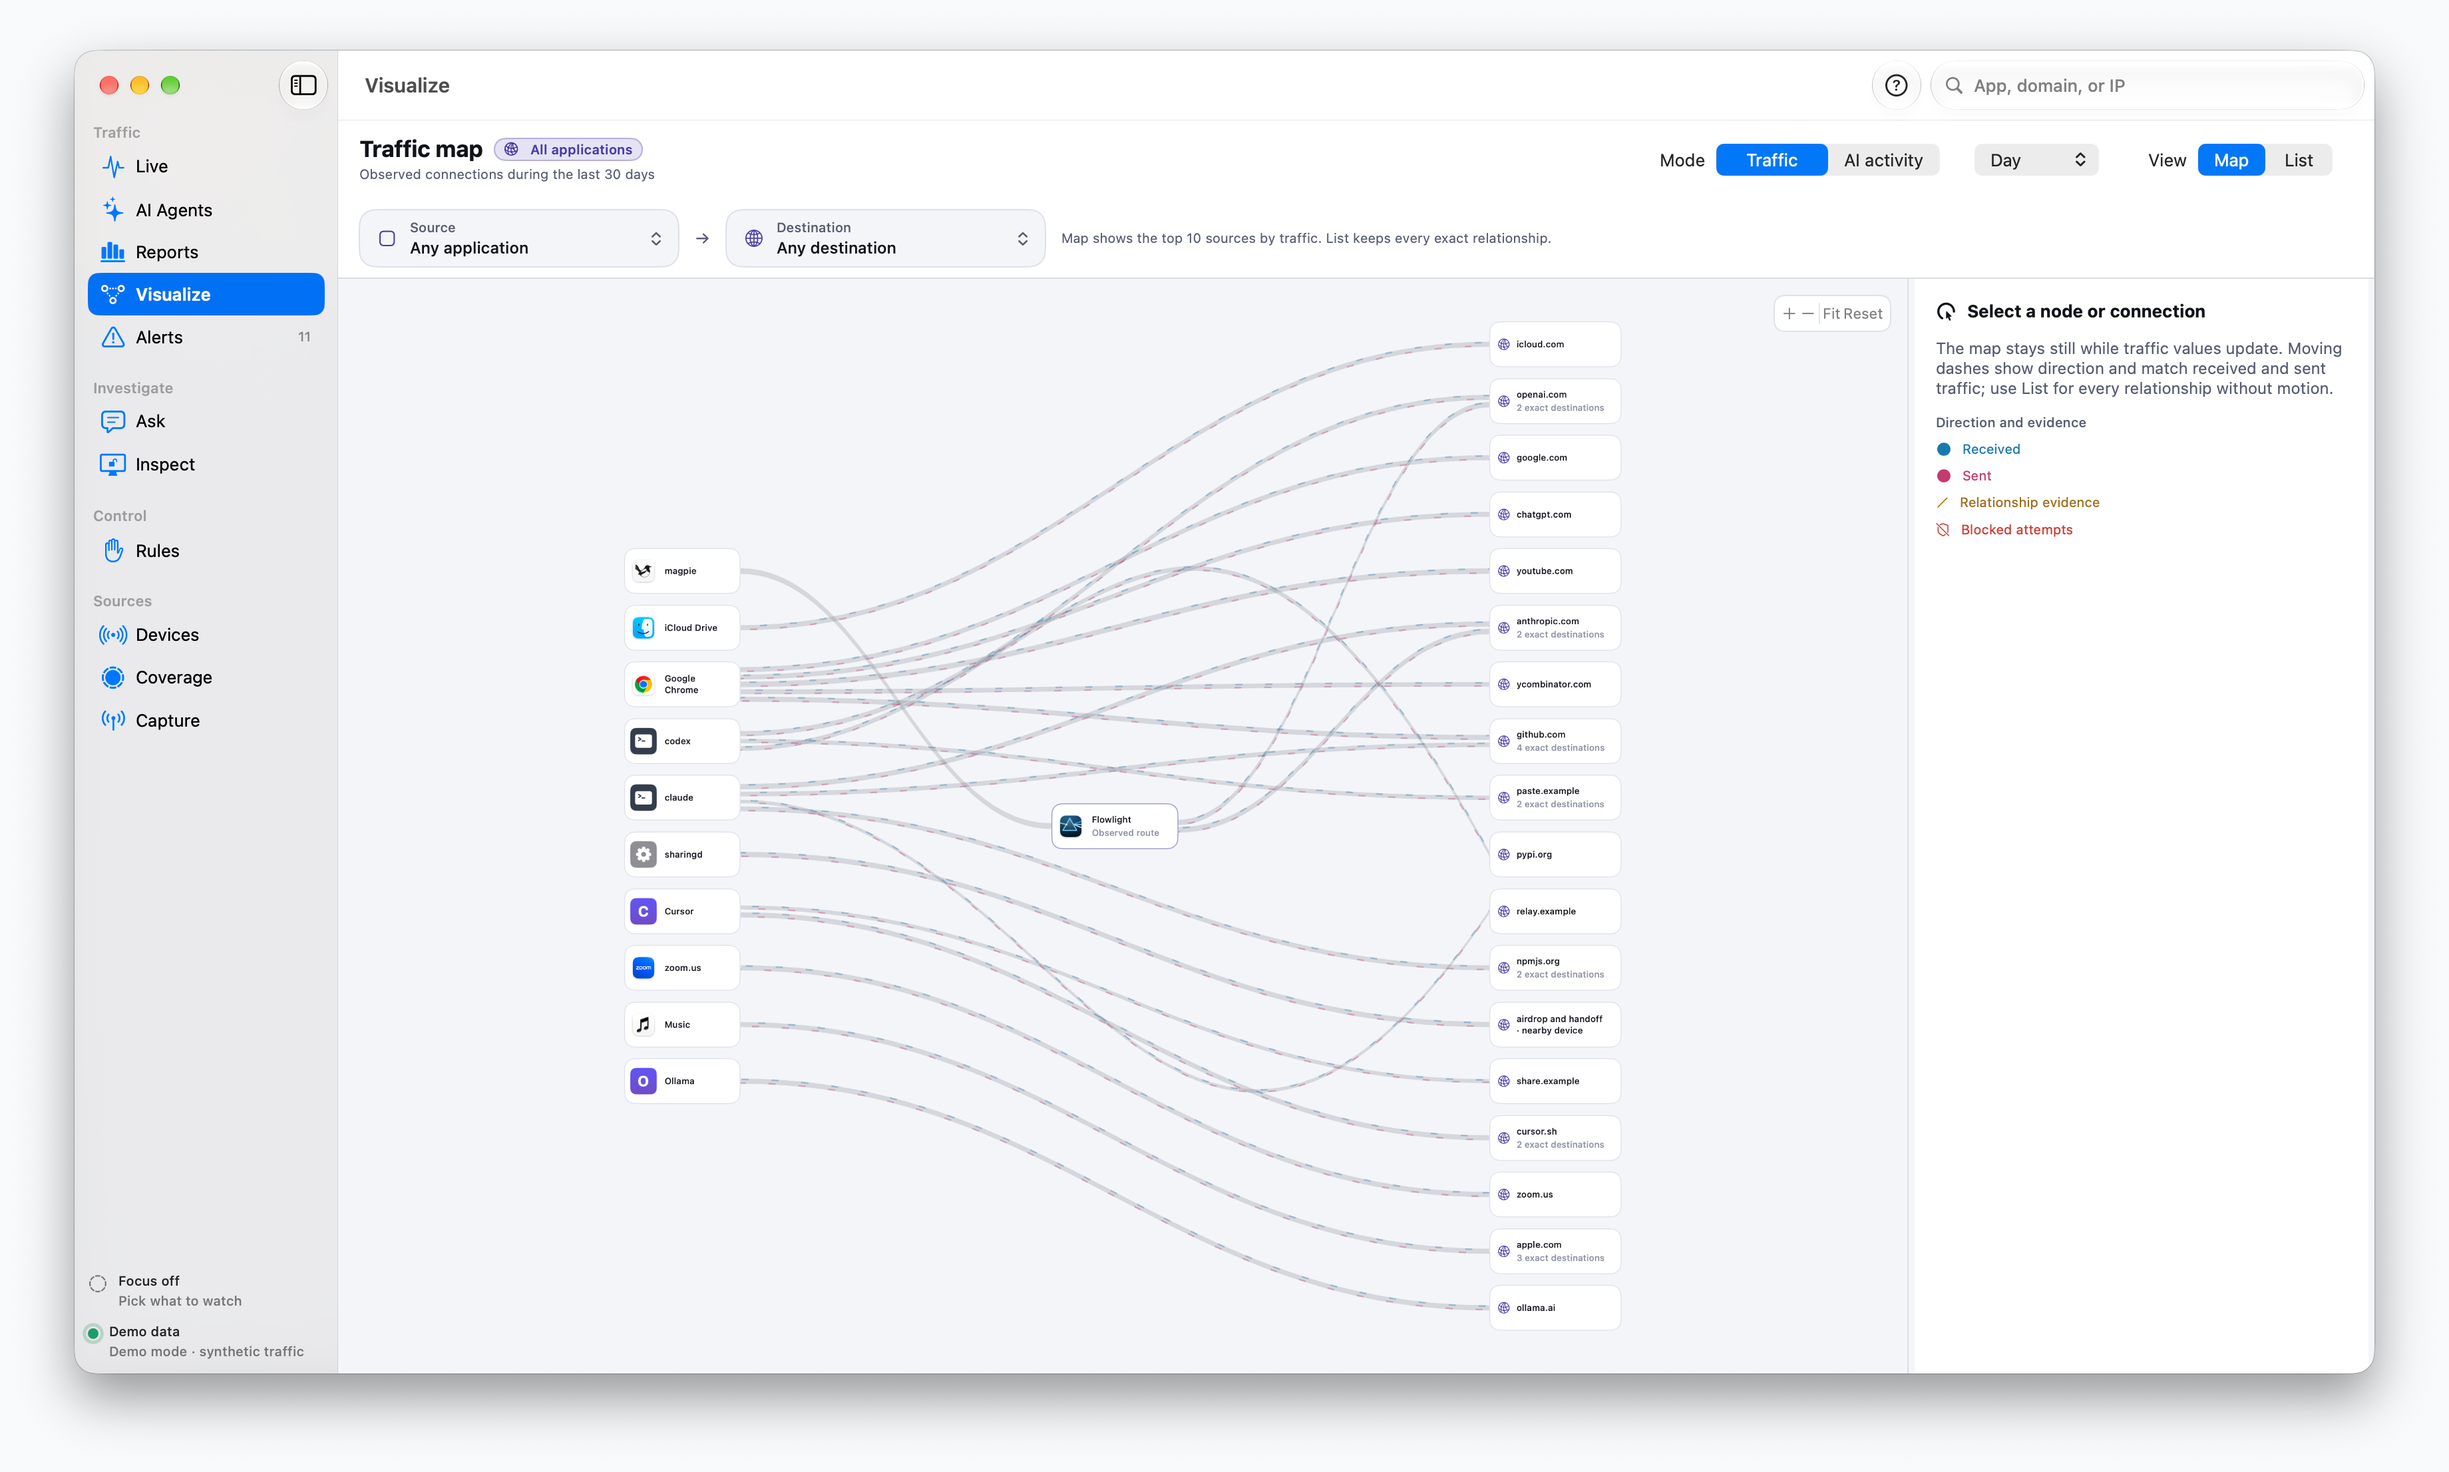
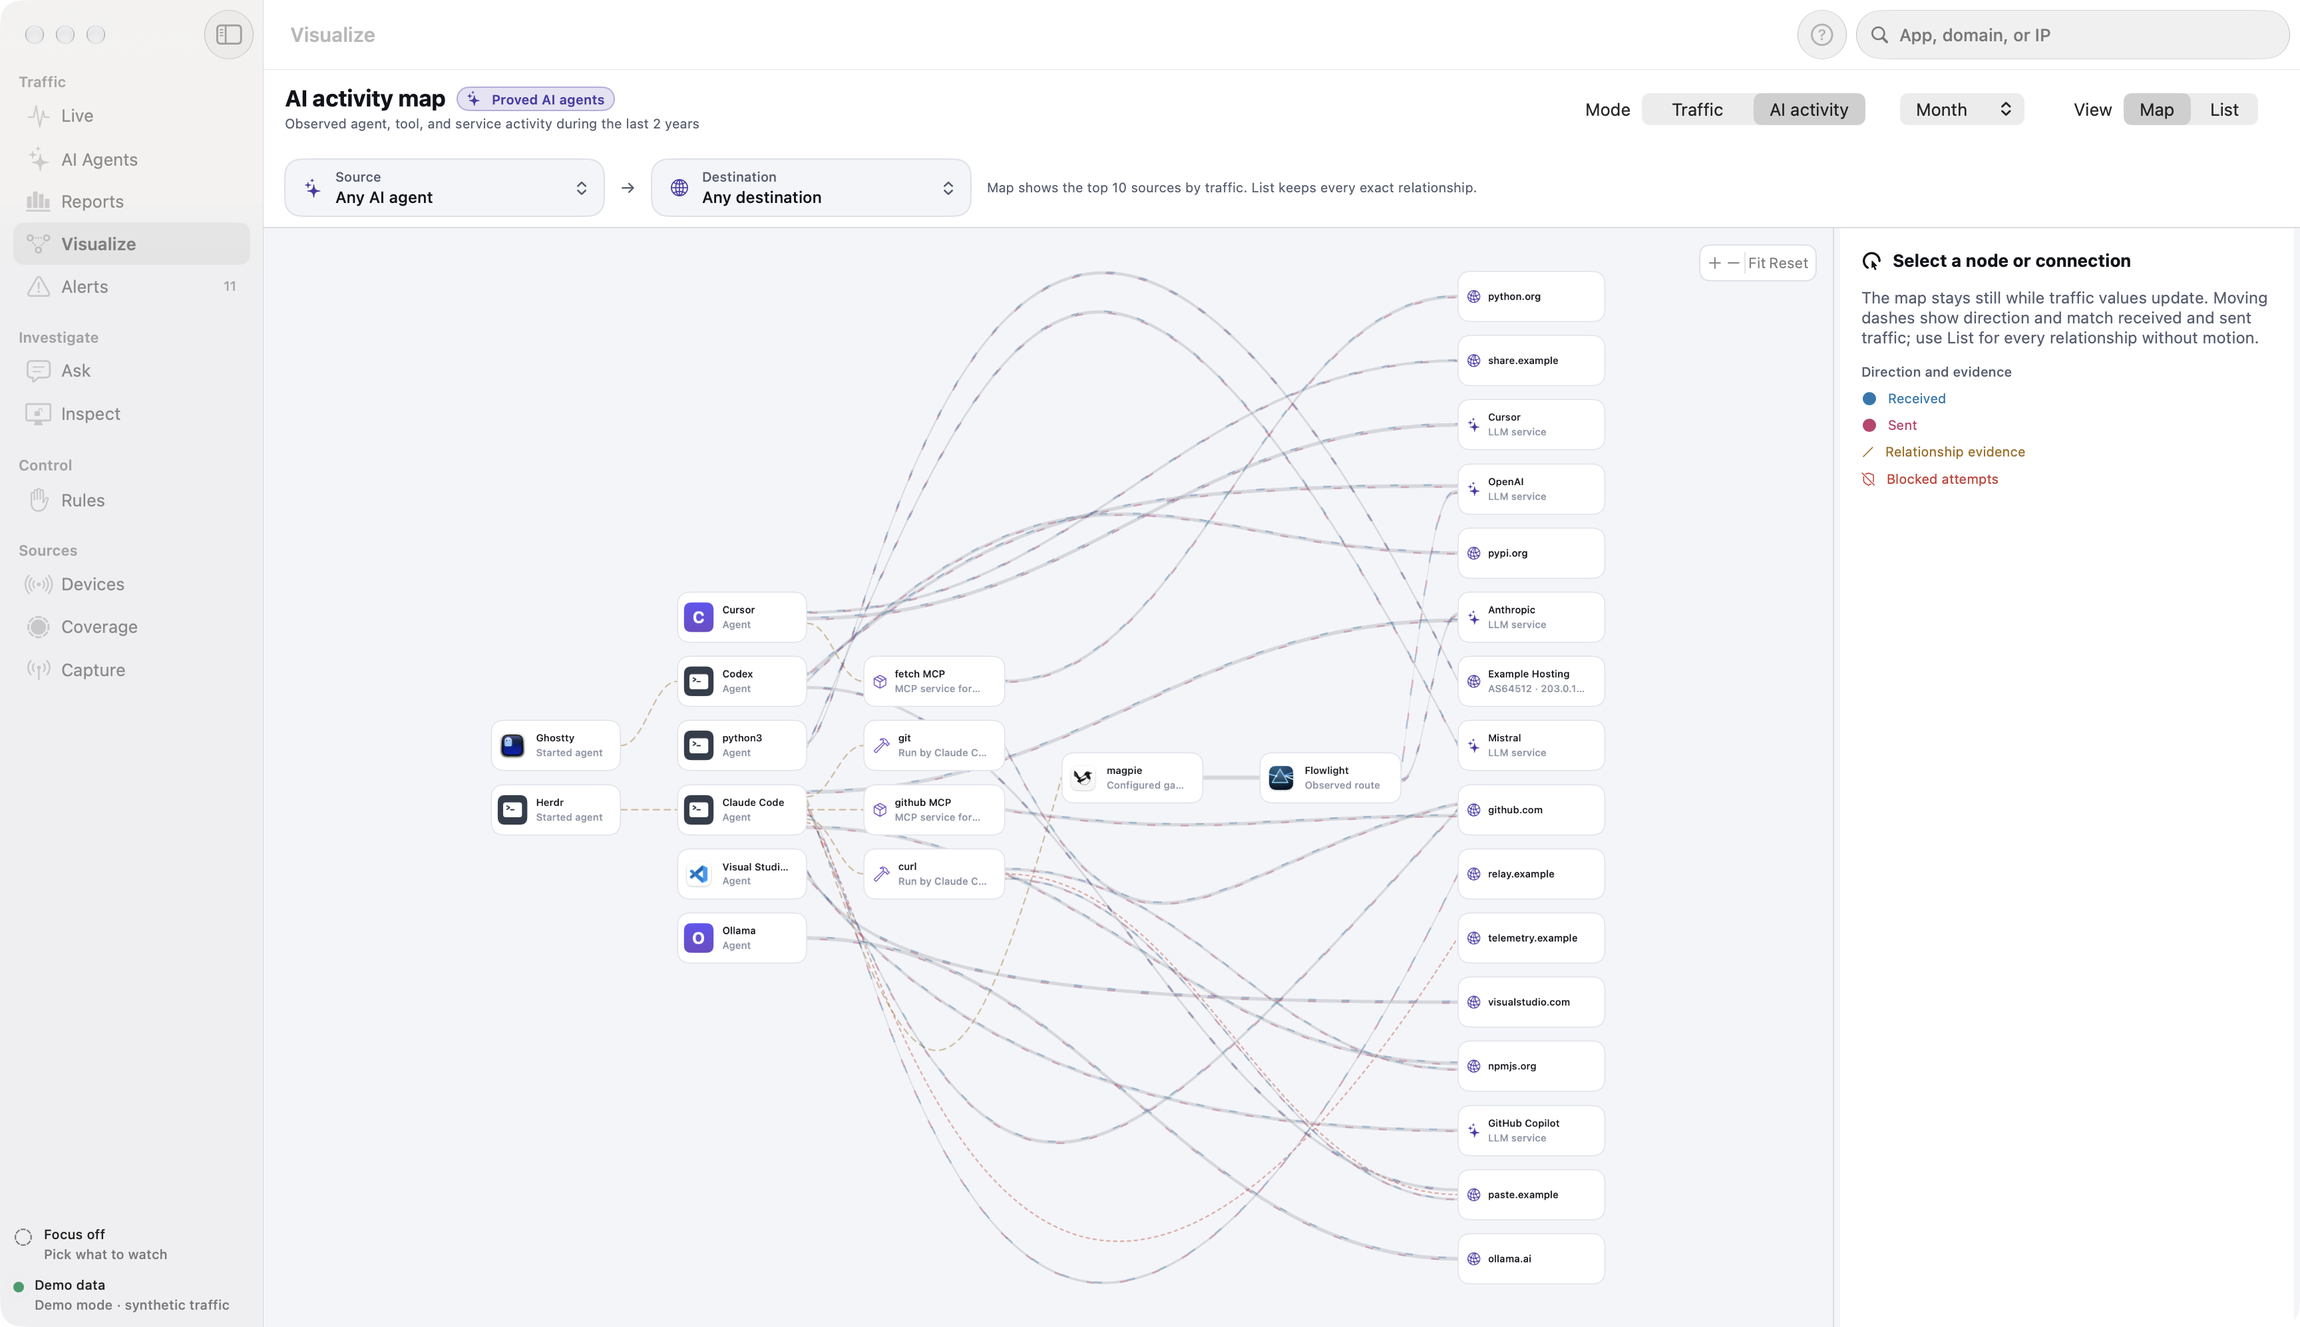
Refresh homepage visualization
Use the final light-mode whole-window AI activity capture and regenerate every localized homepage with content-hashed, dimension-stamped markup.

diff --git a/docs/ja/index.html b/docs/ja/index.html
@@ -127,7 +127,7 @@
 
   <section class="shot" aria-label="スクリーンショット">
     <div class="wrap">
-      <div class="frame"><img src="../assets/screenshots/visualize.png?v=514787b4" width="1840" height="1106"
+      <div class="frame"><img src="../assets/screenshots/visualize.png?v=abf1b478" width="1728" height="997"
         alt="Flowlight の AI アクティビティマップ。エージェントカードは関連付けられたツールと設定済みゲートウェイを経由し、観測された magpie から Flowlight への経路が LLM サービスとドメインへ分岐します。帯の幅は期間内の通信量を示します。"></div>
       <p class="caption">実際の AI 経路を確認できます。エージェント、関連付けられたツール、設定済みゲートウェイ、Flowlight が観測したプロキシ段階、正確な接続先を表示。帯の幅は選択期間の受信量と送信量の合計です。デモデータで表示しています。</p>
     </div>

diff --git a/docs/ko/index.html b/docs/ko/index.html
@@ -127,7 +127,7 @@
 
   <section class="shot" aria-label="스크린샷">
     <div class="wrap">
-      <div class="frame"><img src="../assets/screenshots/visualize.png?v=514787b4" width="1840" height="1106"
+      <div class="frame"><img src="../assets/screenshots/visualize.png?v=abf1b478" width="1728" height="997"
         alt="Flowlight의 AI 활동 지도. 에이전트 카드는 귀속된 도구와 구성된 게이트웨이를 거치며, 관측된 magpie에서 Flowlight로의 경로가 LLM 서비스와 도메인으로 분기됩니다. 리본 너비는 기간 내 트래픽 양을 나타냅니다."></div>
       <p class="caption">실제 AI 경로를 확인하세요. 에이전트, 귀속된 도구, 구성된 게이트웨이, Flowlight가 관측한 프록시 단계와 정확한 목적지를 표시합니다. 리본 너비는 선택한 기간의 수신량과 송신량 합계입니다. 데모 데이터로 표시했습니다.</p>
     </div>

diff --git a/docs/fr/index.html b/docs/fr/index.html
@@ -127,7 +127,7 @@
 
   <section class="shot" aria-label="Capture d’écran">
     <div class="wrap">
-      <div class="frame"><img src="../assets/screenshots/visualize.png?v=514787b4" width="1840" height="1106"
+      <div class="frame"><img src="../assets/screenshots/visualize.png?v=abf1b478" width="1728" height="997"
         alt="La carte d’activité IA de Flowlight. Les cartes des agents passent par des outils attribués et des passerelles configurées ; la route observée de magpie vers Flowlight se ramifie ensuite vers les services LLM et les domaines. La largeur des rubans indique le trafic de la période."></div>
       <p class="caption">Voyez la route IA réelle : agents, outils attribués, passerelles configurées, étape proxy observée par Flowlight et destinations exactes. La largeur indique le total reçu et envoyé pendant la période sélectionnée. Avec des données de démonstration.</p>
     </div>

diff --git a/docs/es/index.html b/docs/es/index.html
@@ -127,7 +127,7 @@
 
   <section class="shot" aria-label="Captura de pantalla">
     <div class="wrap">
-      <div class="frame"><img src="../assets/screenshots/visualize.png?v=514787b4" width="1840" height="1106"
+      <div class="frame"><img src="../assets/screenshots/visualize.png?v=abf1b478" width="1728" height="997"
         alt="El mapa de actividad de IA de Flowlight. Las tarjetas de agentes se conectan mediante herramientas atribuidas y puertas de enlace configuradas; la ruta observada de magpie a Flowlight se ramifica después hacia servicios LLM y dominios. El ancho de las cintas muestra el tráfico del período."></div>
       <p class="caption">Ve la ruta real de IA: agentes, herramientas atribuidas, puertas de enlace configuradas, la etapa de proxy observada por Flowlight y destinos exactos. El ancho muestra el total recibido y enviado en el período seleccionado. Con datos de demostración.</p>
     </div>

diff --git a/docs/pt-PT/index.html b/docs/pt-PT/index.html
@@ -127,7 +127,7 @@
 
   <section class="shot" aria-label="Captura de ecrã">
     <div class="wrap">
-      <div class="frame"><img src="../assets/screenshots/visualize.png?v=514787b4" width="1840" height="1106"
+      <div class="frame"><img src="../assets/screenshots/visualize.png?v=abf1b478" width="1728" height="997"
         alt="O mapa de atividade de IA do Flowlight. Os cartões de agentes passam por ferramentas atribuídas e gateways configurados; a rota observada do magpie para o Flowlight ramifica-se depois para serviços LLM e domínios. A largura das faixas mostra o tráfego do período."></div>
       <p class="caption">Veja a rota de IA real: agentes, ferramentas atribuídas, gateways configurados, a etapa de proxy observada pelo Flowlight e destinos exatos. A largura mostra o total recebido e enviado no período selecionado. Com dados de demonstração.</p>
     </div>

diff --git a/docs/de/index.html b/docs/de/index.html
@@ -127,7 +127,7 @@
 
   <section class="shot" aria-label="Bildschirmfoto">
     <div class="wrap">
-      <div class="frame"><img src="../assets/screenshots/visualize.png?v=514787b4" width="1840" height="1106"
+      <div class="frame"><img src="../assets/screenshots/visualize.png?v=abf1b478" width="1728" height="997"
         alt="Flowlights Karte der KI-Aktivität. Agentenkarten führen über zugeordnete Werkzeuge und konfigurierte Gateways; die beobachtete Route von magpie über Flowlight verzweigt sich anschließend zu LLM-Diensten und Domains. Die Bandbreite zeigt das Verkehrsvolumen des Zeitraums."></div>
       <p class="caption">Sieh die tatsächliche KI-Route: Agenten, zugeordnete Werkzeuge, konfigurierte Gateways, Flowlights beobachtete Proxy-Stufe und exakte Ziele. Die Bandbreite zeigt empfangene plus gesendete Daten im gewählten Zeitraum. Mit Demodaten.</p>
     </div>

diff --git a/docs/it/index.html b/docs/it/index.html
@@ -127,7 +127,7 @@
 
   <section class="shot" aria-label="Schermata">
     <div class="wrap">
-      <div class="frame"><img src="../assets/screenshots/visualize.png?v=514787b4" width="1840" height="1106"
+      <div class="frame"><img src="../assets/screenshots/visualize.png?v=abf1b478" width="1728" height="997"
         alt="La mappa dell’attività IA di Flowlight. Le schede degli agenti passano attraverso strumenti attribuiti e gateway configurati; il percorso osservato da magpie a Flowlight si dirama poi verso servizi LLM e domini. La larghezza dei nastri mostra il traffico del periodo."></div>
       <p class="caption">Vedi il percorso IA reale: agenti, strumenti attribuiti, gateway configurati, lo stadio proxy osservato da Flowlight e le destinazioni esatte. La larghezza mostra il totale ricevuto e inviato nel periodo selezionato. Con dati dimostrativi.</p>
     </div>

diff --git a/docs/index.html b/docs/index.html
@@ -127,7 +127,7 @@
 
   <section class="shot" aria-label="Screenshot">
     <div class="wrap">
-      <div class="frame"><img src="assets/screenshots/visualize.png?v=514787b4" width="1840" height="1106"
+      <div class="frame"><img src="assets/screenshots/visualize.png?v=abf1b478" width="1728" height="997"
         alt="Flowlight's AI activity map. Agent cards connect through attributed tools and configured gateways; the observed magpie to Flowlight route then branches to LLM services and domains, with ribbon width showing period traffic volume."></div>
       <p class="caption">See the real AI route: agents, attributed tools, configured gateways, Flowlight's observed proxy stage, and exact destinations. Ribbon width shows total received plus sent traffic for the selected period. Shown with demo data.</p>
     </div>

diff --git a/docs/zh-Hant/index.html b/docs/zh-Hant/index.html
@@ -127,7 +127,7 @@
 
   <section class="shot" aria-label="螢幕截圖">
     <div class="wrap">
-      <div class="frame"><img src="../assets/screenshots/visualize.png?v=514787b4" width="1840" height="1106"
+      <div class="frame"><img src="../assets/screenshots/visualize.png?v=abf1b478" width="1728" height="997"
         alt="Flowlight 的 AI 活動圖。代理卡片經過已歸屬工具和已設定閘道；觀測到的 magpie 至 Flowlight 路由隨後分支至 LLM 服務和網域。帶狀線寬度表示所選時段的流量。"></div>
       <p class="caption">查看真實 AI 路由：代理、已歸屬工具、已設定閘道、Flowlight 觀測到的代理階段和精確目的地。帶狀線寬度表示所選時段接收與傳送流量的總和。圖中為示範資料。</p>
     </div>

diff --git a/docs/zh-Hans/index.html b/docs/zh-Hans/index.html
@@ -127,7 +127,7 @@
 
   <section class="shot" aria-label="截图">
     <div class="wrap">
-      <div class="frame"><img src="../assets/screenshots/visualize.png?v=514787b4" width="1840" height="1106"
+      <div class="frame"><img src="../assets/screenshots/visualize.png?v=abf1b478" width="1728" height="997"
         alt="Flowlight 的 AI 活动图。代理卡片经过已归属工具和已配置网关；观测到的 magpie 到 Flowlight 路由随后分支至 LLM 服务和域名。带状线宽度表示所选时段的流量。"></div>
       <p class="caption">查看真实 AI 路由：代理、已归属工具、已配置网关、Flowlight 观测到的代理阶段和精确目标。带状线宽度表示所选时段接收与发送流量的总和。图中为演示数据。</p>
     </div>
